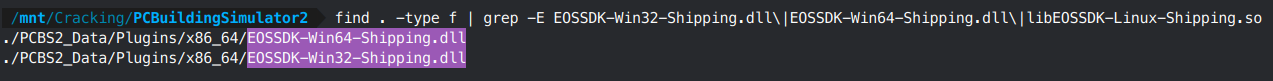
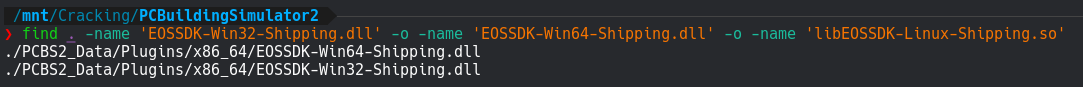
Making a 'find' command a little more readable

Changed region(s): [[0.0, 0.0988, 1.0, 0.8889]]

diff --git a/DRM/EOS/defeating_eos.md b/DRM/EOS/defeating_eos.md
@@ -12,7 +12,7 @@ For our walkthrough we'll be cracking the EOS DRM on PC Building Simulator 2. Th
 
 1. Source PC Building Simulator 2 and extract it to your workspace
 
-2. Open a terminal in the base game directory and run the following command to locate the EOS libraries: `find . -type f | grep -E EOSSDK-Win32-Shipping.dll\|EOSSDK-Win64-Shipping.dll\|libEOSSDK-Linux-Shipping.so`
+2. Open a terminal in the base game directory and run the following command to locate the EOS libraries: `find . -name 'EOSSDK-Win32-Shipping.dll' -o -name 'EOSSDK-Win64-Shipping.dll' -o -name 'libEOSSDK-Linux-Shipping.so'`
 
     ![PCBS2 Search](images/PCBS2-Search.png "EOS search results")
 
